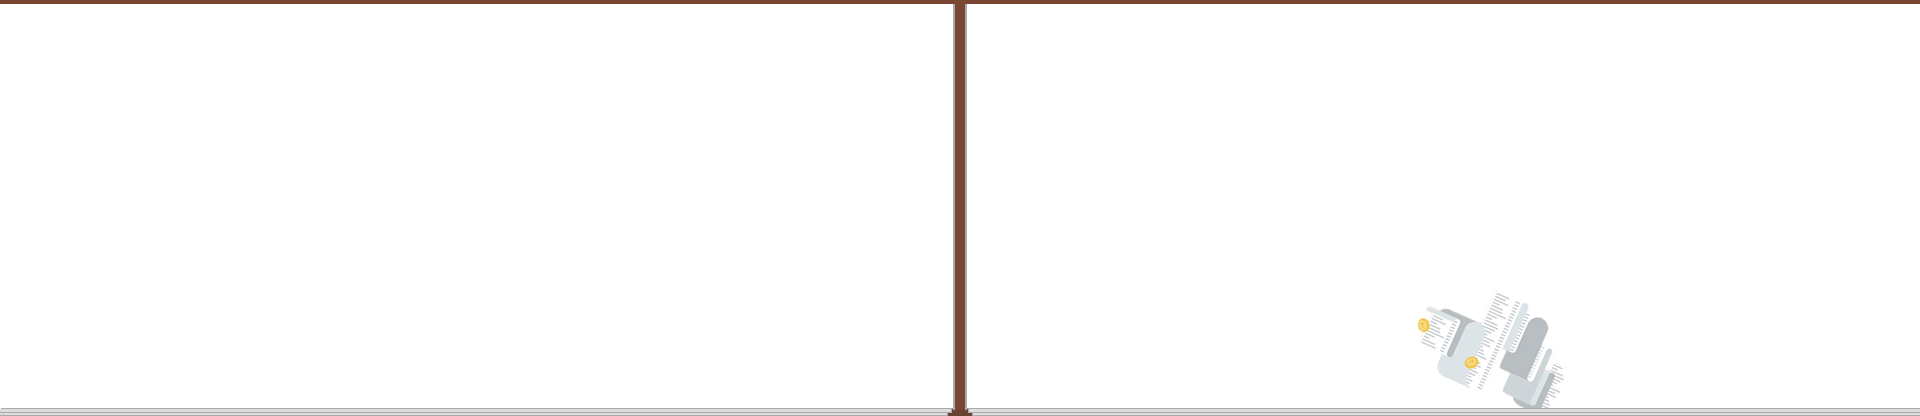
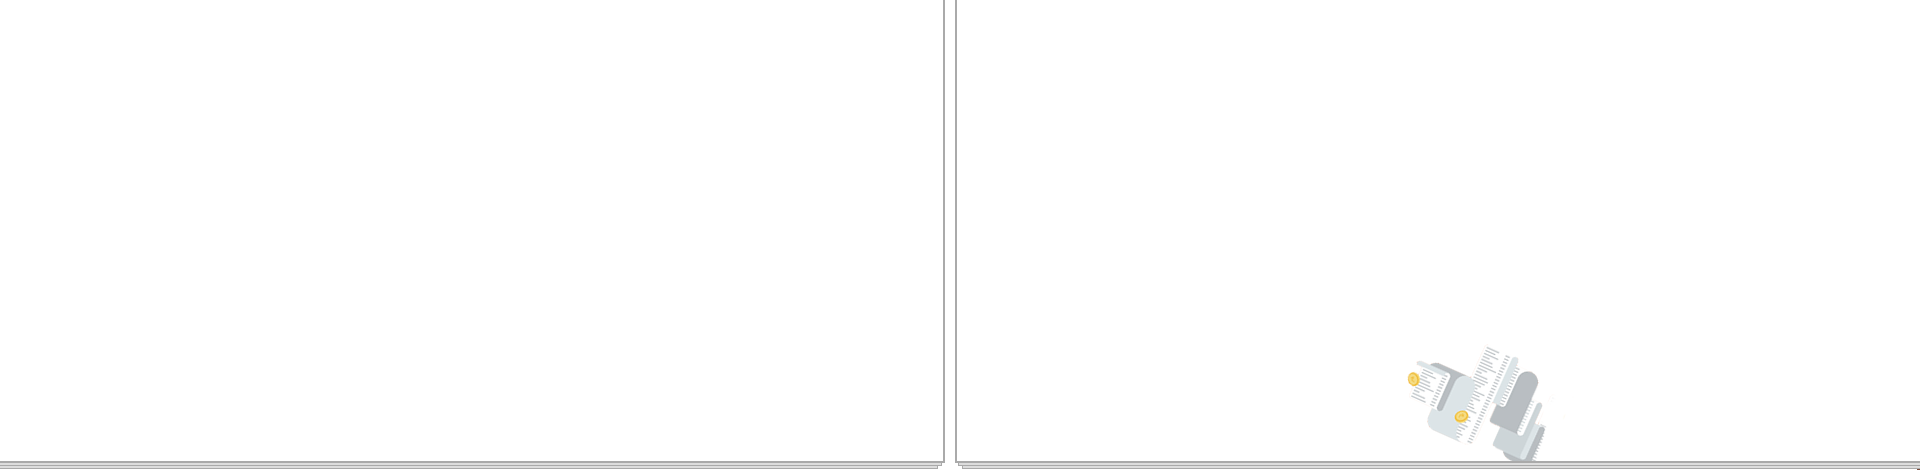
выв

Changed region(s): [[0.0, 0.0, 1.0, 1.0]]

diff --git a/css/style.css b/css/style.css
@@ -59,7 +59,7 @@
 .working .centered {padding-top: 215px; position: relative;}
 .working .title {position: absolute; width: 115px; left: 120px; top: 15px; text-align: center; line-height: 1.1; margin-bottom: 0;}
 
-.pattern5 {background: url(/img/book.png) no-repeat center center; height: 416px; width: 100%;}
+.pattern5 {background: url(/img/book.png) no-repeat center center; height: 470px; width: 100%;}
 
 .advantages ul {list-style: none; padding: 0; margin: 0;}
 .advantages ul li {font: normal 16px Open Sans; padding-left: 35px; margin-bottom: 15px; background: url(/img/tic-icon.png) no-repeat;}
